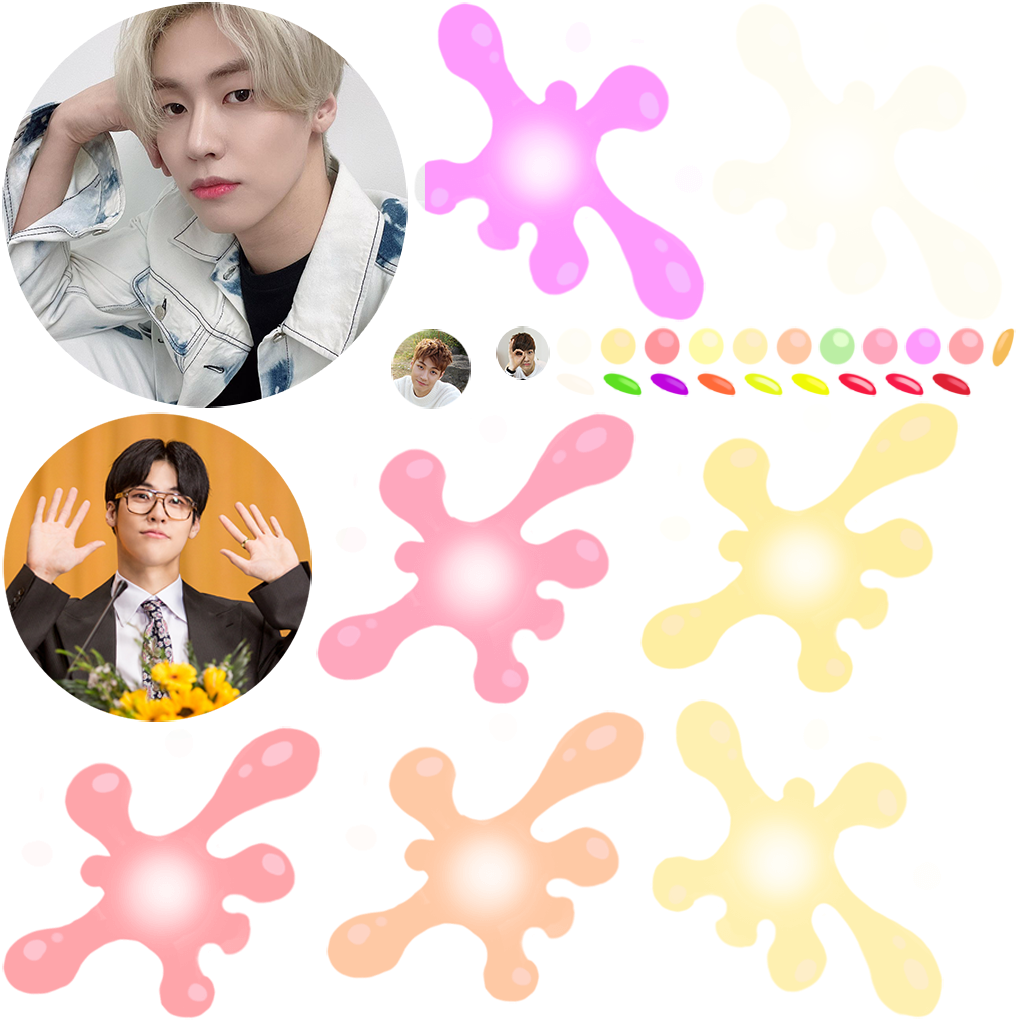
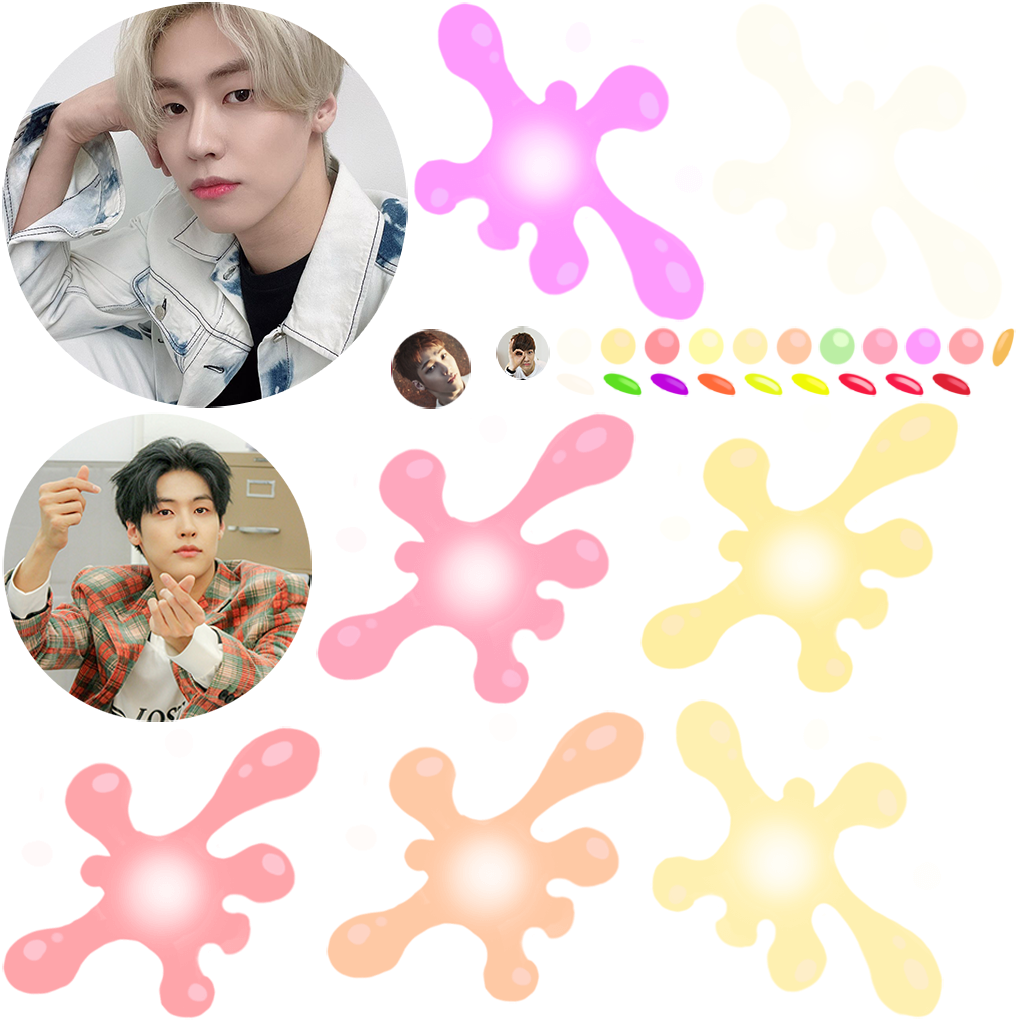
initial commit

Changed region(s): [[0.0, 0.3943, 0.3045, 0.728], [0.3654, 0.3033, 0.4568, 0.4247], [0.3959, 0.1517, 0.4263, 0.2123]]

diff --git a/index.html b/index.html
@@ -4,7 +4,7 @@
 <head>
     <meta charset="utf-8">
 
-    <title>合成大欧派</title>
+    <title>合成李承协</title>
 
     <!--http://www.html5rocks.com/en/mobile/mobifying/-->
     <meta name="viewport" content="width=device-width,user-scalable=no,initial-scale=1, minimum-scale=1,maximum-scale=1" />
@@ -109,7 +109,7 @@
             //        console.log("window.navigator.language",window.navigator.language);
 
             if (window.navigator.language == "zh-CN" || window.navigator.language == "zh-cn") {
-                document.title = "合成大欧派";
+                document.title = "合成李承协";
             } 
 
 
